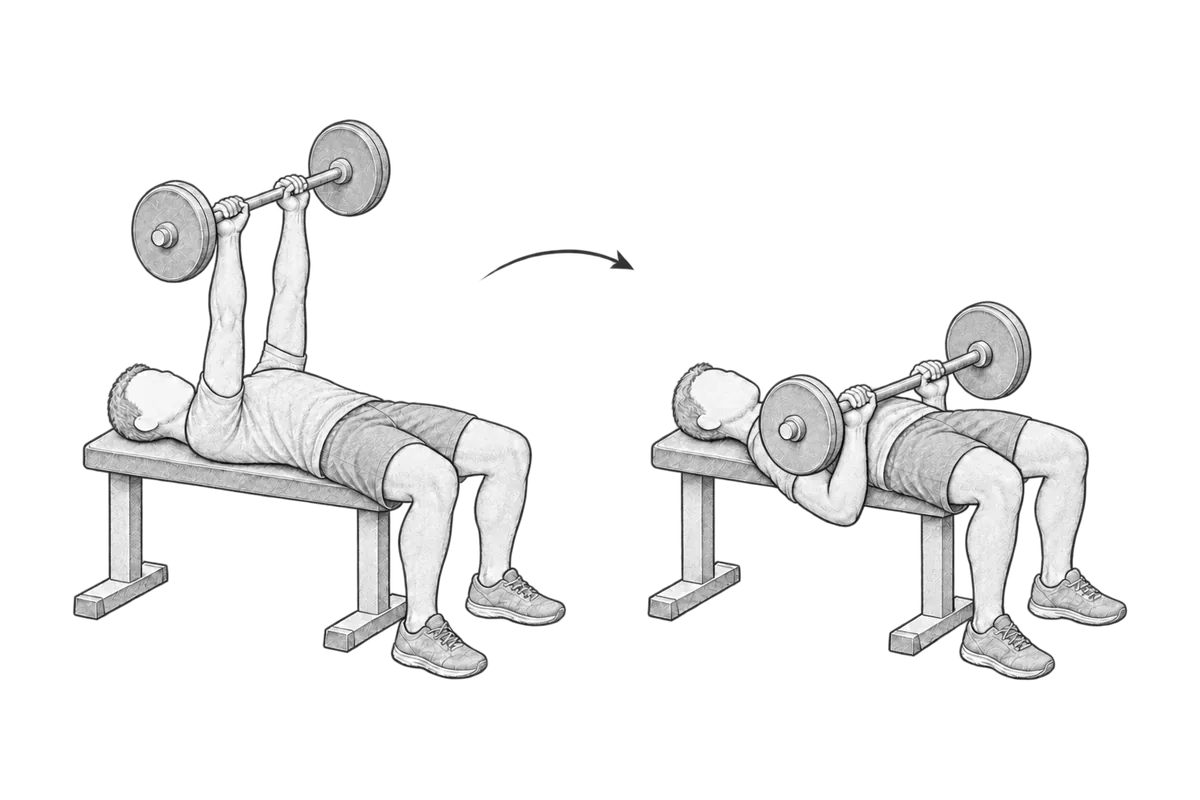
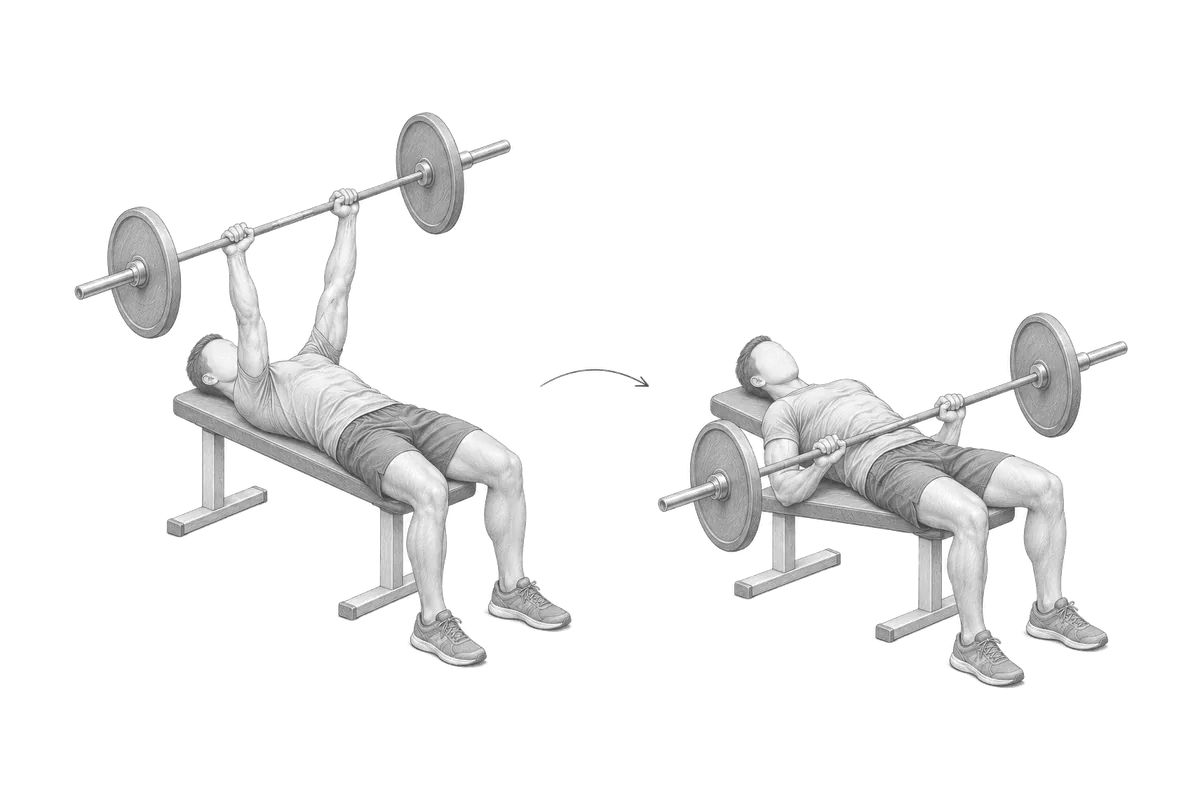
squash codex/ex-redraw: muscles: redraw the bench press (full Olympic bar, wide grip, bar to the lower sternum) and heel walk (forefoot clearly off the ground); cable adduction kept

Changed region(s): [[0.0617, 0.125, 0.4933, 0.875], [0.5242, 0.375, 0.9558, 0.875], [0.4008, 0.3125, 0.5242, 0.3438]]

diff --git a/scripts/figures/exercise-redraw.ts b/scripts/figures/exercise-redraw.ts
@@ -1,0 +1,136 @@
+/** Dimensioned composition guides for the November exercise redraw.
+ * Run: pnpm tsx scripts/figures/exercise-redraw.ts
+ * Guides, prompts and visual QA stay in .review; no browser is used.
+ */
+import assert from 'node:assert/strict';
+import { mkdirSync, writeFileSync, readFileSync, statSync } from 'node:fs';
+import sharp from 'sharp';
+
+mkdirSync('.review', { recursive: true });
+type V = [number, number, number];
+const barLength = 2.2, plateDiameter = .45, shoulderWidth = .4, gripWidth = .62;
+assert.equal(barLength, 2.2);
+assert.equal(plateDiameter, .45);
+assert(gripWidth > shoulderWidth && gripWidth < shoulderWidth * 1.6);
+assert(.31 < .72 && .72 < .84 && .84 < 1.1); // hand, collar, plate, sleeve end
+const p = ([x,y,z]: V): [number,number] => [345 + 190*x + 150*y, 610 - 65*x + 90*y - 260*z];
+const pt = (v: V) => p(v).join(',');
+const line = (a: V,b: V,w=2) => `<path d="M${pt(a)}L${pt(b)}" fill="none" stroke="#555" stroke-width="${w}" stroke-linecap="round"/>`;
+const poly = (v: V[], fill='#eee') => `<polygon points="${v.map(pt).join(' ')}" fill="${fill}" stroke="#555" stroke-width="2"/>`;
+function limb(v: V[], width=21) {
+  const d = `M${v.map(pt).join('L')}`;
+  return `<path d="${d}" fill="none" stroke="#555" stroke-width="${width+3}" stroke-linecap="round" stroke-linejoin="round"/><path d="${d}" fill="none" stroke="#e6e6e6" stroke-width="${width}" stroke-linecap="round" stroke-linejoin="round"/>`;
+}
+function plate(x: number,y: number,z: number) {
+  const ring = (r: number) => Array.from({length:65},(_,i) => pt([x,y+r*Math.cos(i*Math.PI/32),z+r*Math.sin(i*Math.PI/32)])).join(' ');
+  return `<polygon points="${ring(plateDiameter/2)}" fill="#ddd" stroke="#555" stroke-width="3"/><polygon points="${ring(.19)}" fill="url(#hatch)" stroke="#888" stroke-width="1"/>`;
+}
+function bench(end: boolean) {
+  const sy=-.65, ey=-.10, sz=.64, wz=end?.60:1.29, wy=end?ey:sy;
+  assert(!end || Math.abs(wy-ey)<.001);
+  assert(end || wy===sy);
+  const elbowX=.43, elbowY=-.40, elbowZ=.34;
+  const angle=Math.atan2(elbowX-.20,elbowY-sy)*180/Math.PI;
+  // 3D upper-arm angle from torso direction includes downward displacement.
+  const upperAngle=Math.atan2(Math.hypot(elbowX-.20,elbowZ-sz),elbowY-sy)*180/Math.PI;
+  assert(upperAngle>=45 && upperAngle<=75);
+  assert(angle>0);
+  let s='';
+  for(const y of [-.85,.45]) {
+    s+=limb([[0,y,.43],[0,y,.06]],10);
+    s+=limb([[-.28,y,.035],[.28,y,.035]],9);
+  }
+  s+=poly([[-.16,-1.2,.45],[.16,-1.2,.45],[.16,.53,.45],[-.16,.53,.45]],'#ccc');
+  for(const x of [-.24,.24]) {
+    s+=limb([[x*.67,.08,.56],[x,.63,.49],[x,.85,.08]],27);
+    s+=limb([[x,.79,.04],[x,1.10,.04]],17);
+  }
+  s+=poly([[-.20,sy,.64],[.20,sy,.64],[.17,.16,.57],[-.17,.16,.57]],'url(#hatch)');
+  s+=poly([[-.17,.01,.58],[.17,.01,.58],[.24,.29,.54],[-.24,.29,.54]],'#ccc');
+  s+=limb([[0,-.67,.58],[0,-.88,.59]],20);
+  const [hx,hy]=p([0,-1.03,.60]);
+  s+=`<ellipse cx="${hx}" cy="${hy}" rx="24" ry="28" transform="rotate(-25 ${hx} ${hy})" fill="#f5f5f5" stroke="#555" stroke-width="2"/>`;
+  for(const sign of [-1,1]) {
+    const shoulder: V=[sign*.20,sy,sz], wrist: V=[sign*.31,wy,wz];
+    const elbow: V=end?[sign*.43,-.40,.34]:[sign*.255,sy,(sz+wz)/2];
+    s+=limb([shoulder,elbow,wrist],18);
+  }
+  // The complete shaft and its two full-size plates stay lateral to the head.
+  s+=line([-1.1,wy,wz],[1.1,wy,wz],5);
+  for(const sign of [-1,1]) {
+    s+=line([sign*.72,wy,wz],[sign*1.1,wy,wz],9);
+    s+=line([sign*.74,wy,wz-.025],[sign*.74,wy,wz+.025],7);
+    s+=plate(sign*.84,wy,wz);
+    const [x,y]=p([sign*.31,wy,wz]);
+    s+=`<ellipse cx="${x}" cy="${y}" rx="9" ry="8" fill="#eee" stroke="#555" stroke-width="2"/>`;
+    const [px,py]=p([sign*.84,wy,wz]);
+    assert(Math.abs(px-hx)>65 || Math.abs(py-hy)>110, 'plate silhouette clears head');
+  }
+  return s;
+}
+const svg = `<svg xmlns="http://www.w3.org/2000/svg" width="1200" height="800"><defs><pattern id="hatch" width="7" height="7" patternUnits="userSpaceOnUse"><rect width="7" height="7" fill="#f4f4f4"/><path d="M-2 7L7-2M4 10L10 4" stroke="#aaa" stroke-width=".6"/></pattern></defs><rect width="1200" height="800" fill="white"/>${bench(false)}<g transform="translate(600 0)">${bench(true)}</g><path d="M530 400Q590 365 650 400L640 389M650 400L635 400" fill="none" stroke="#555" stroke-width="2"/></svg>`;
+writeFileSync('.review/bench-composition-guide.svg',svg);
+await sharp(Buffer.from(svg)).png().toFile('.review/bench-composition-guide.png');
+writeFileSync('.review/geometry-checks.json',JSON.stringify({barLength,plateDiameter,shoulderWidth,gripWidth,startBarY:-.65,startShoulderY:-.65,endBarY:-.10,lowerSternumY:-.10,plateCentres:[-.84,.84],collars:[-.74,.74],sleeveEnds:[-1.1,1.1],heelWalkSoleAngleDegrees:20},null,2)+'\n');
+console.log('Bench geometry assertions passed; composition guide written.');
+
+// Feather the almost-white ground to alpha while retaining opaque graphite
+// shading, as in the accepted sketches. Opaque shading also compresses better
+// than encoding all pencil texture in the WebP alpha channel.
+if (process.argv.includes('--prepare')) {
+  for (const [id, source] of [['barbell-bench-press','bench-generated-r4'],['heel-walk','heel-generated-r2']]) {
+    const {data,info}=await sharp(`.review/${source}.png`).flatten({background:'white'}).greyscale().raw().toBuffer({resolveWithObject:true});
+    const rgba=Buffer.alloc(info.width*info.height*4);
+    for (let i=0;i<data.length;i++) {
+      const v=data[i]!;
+      rgba[i*4]=rgba[i*4+1]=rgba[i*4+2]=Math.min(v,240);
+      rgba[i*4+3]=v>=251?0:v>240?Math.round((255-v)*255/15):255;
+    }
+    await sharp(rgba,{raw:{width:info.width,height:info.height,channels:4}}).png().toFile(`.review/${id}-source.png`);
+  }
+}
+
+if (process.argv.includes('--review')) {
+  const targets=['barbell-bench-press','heel-walk','cable-hip-adduction'];
+  const rows=[['barbell-bench-press','barbell-overhead-press','push-up','dumbbell-fly'],['heel-walk','wall-tibialis-raise','barbell-back-squat','cable-hip-abduction']];
+  const bg={paper:[233,228,216],cinema:[31,33,36]} as const;
+  async function view(id:string,width:number,theme:'paper'|'cinema') {
+    const {data,info}=await sharp(`public/illustrations/exercises/${id}.webp`).resize(width).ensureAlpha().raw().toBuffer({resolveWithObject:true});
+    const rgb=Buffer.alloc(info.width*info.height*3);
+    for(let i=0;i<info.width*info.height;i++) for(let c=0;c<3;c++) {
+      const a=data[i*4+3]!/255;
+      const v=data[i*4+c]!;
+      const ground=bg[theme][c]!;
+      // CSS: multiply on paper; invert + hue-rotate(180) + contrast(.94),
+      // screen at .86 opacity on cinema. Greys are hue-rotation invariant.
+      const blended=theme==='paper'?ground*v/255:255-(255-ground)*(255-((255-v-127.5)*.94+127.5))/255;
+      const opacity=theme==='paper'?a:a*.86;
+      rgb[i*3+c]=Math.round(ground*(1-opacity)+blended*opacity);
+    }
+    return sharp(rgb,{raw:{width:info.width,height:info.height,channels:3}}).png().toBuffer();
+  }
+  for(const id of targets) {
+    const file=`public/illustrations/exercises/${id}.webp`;
+    const m=await sharp(file).metadata();
+    assert.equal(m.width,1200);assert.equal(m.height,800);assert(m.hasAlpha);
+    assert(statSync(file).size<=120*1024);
+    for(const theme of ['paper','cinema'] as const) {
+      writeFileSync(`.review/${id}-${theme}-420.png`,await view(id,420,theme));
+      writeFileSync(`.review/${id}-${theme}-840.png`,await view(id,840,theme));
+      writeFileSync(`.review/${id}-${theme}-2x.png`,await view(id,2400,theme));
+    }
+    console.log(`${id}: 1200x800 alpha; ${statSync(file).size} bytes`);
+  }
+  for(const theme of ['paper','cinema'] as const) {
+    const layers=[];
+    for(let r=0;r<rows.length;r++) for(let c=0;c<rows[r]!.length;c++) {
+      const id=rows[r]![c]!;
+      layers.push({input:await view(id,420,theme),left:c*440+10,top:r*320+30});
+      const fill=theme==='paper'?'#333':'#ddd';
+      layers.push({input:Buffer.from(`<svg width="430" height="26"><text x="10" y="19" fill="${fill}" font-family="sans-serif" font-size="15">${id}${c===0?' (redraw)':''}</text></svg>`),left:c*440,top:r*320});
+    }
+    await sharp({create:{width:1760,height:640,channels:3,background:{r:bg[theme][0],g:bg[theme][1],b:bg[theme][2]}}}).composite(layers).png().toFile(`.review/style-comparison-${theme}-420.png`);
+  }
+  // Keep an easily inspectable account of the exact simulation and inputs.
+  writeFileSync('.review/preview-settings.json',JSON.stringify({paper:'#e9e4d8',cinema:'#1f2124',cinemaFilter:'invert(1) hue-rotate(180deg) contrast(.94)',cinemaBlend:'screen',cinemaOpacity:.86,sizes:[420,840,2400],geometry:JSON.parse(readFileSync('.review/geometry-checks.json','utf8'))},null,2)+'\n');
+}
